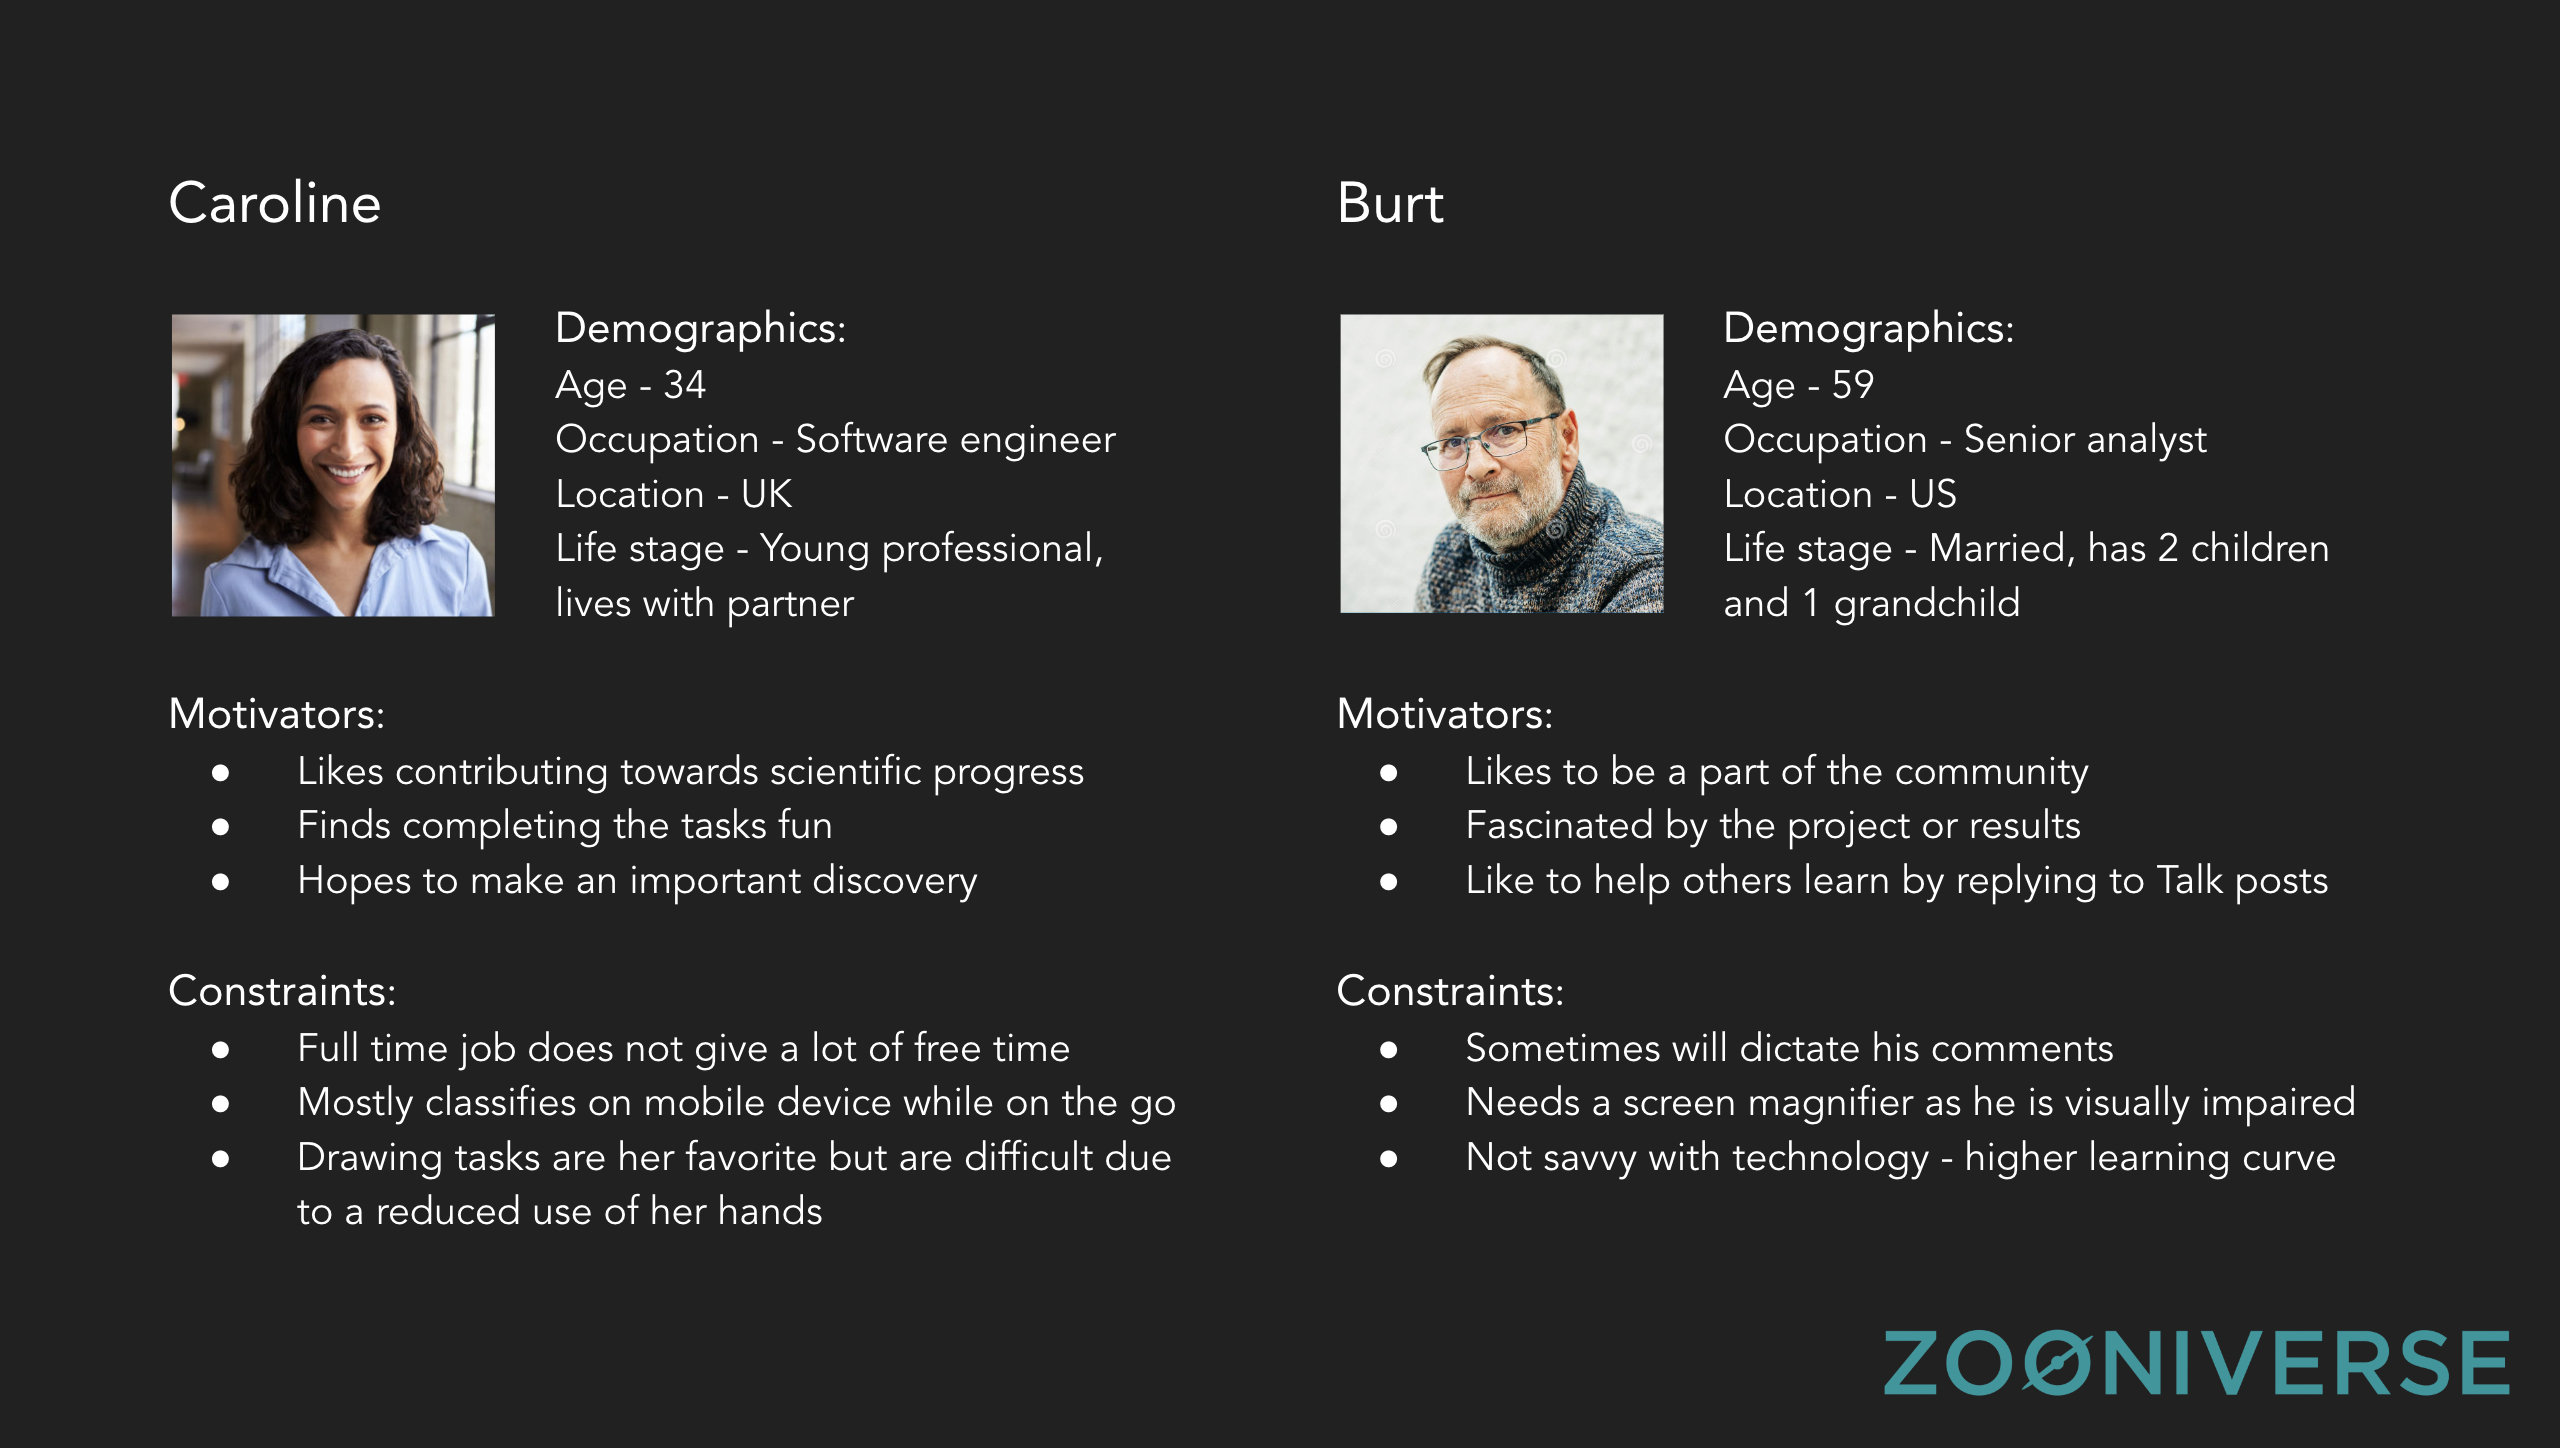
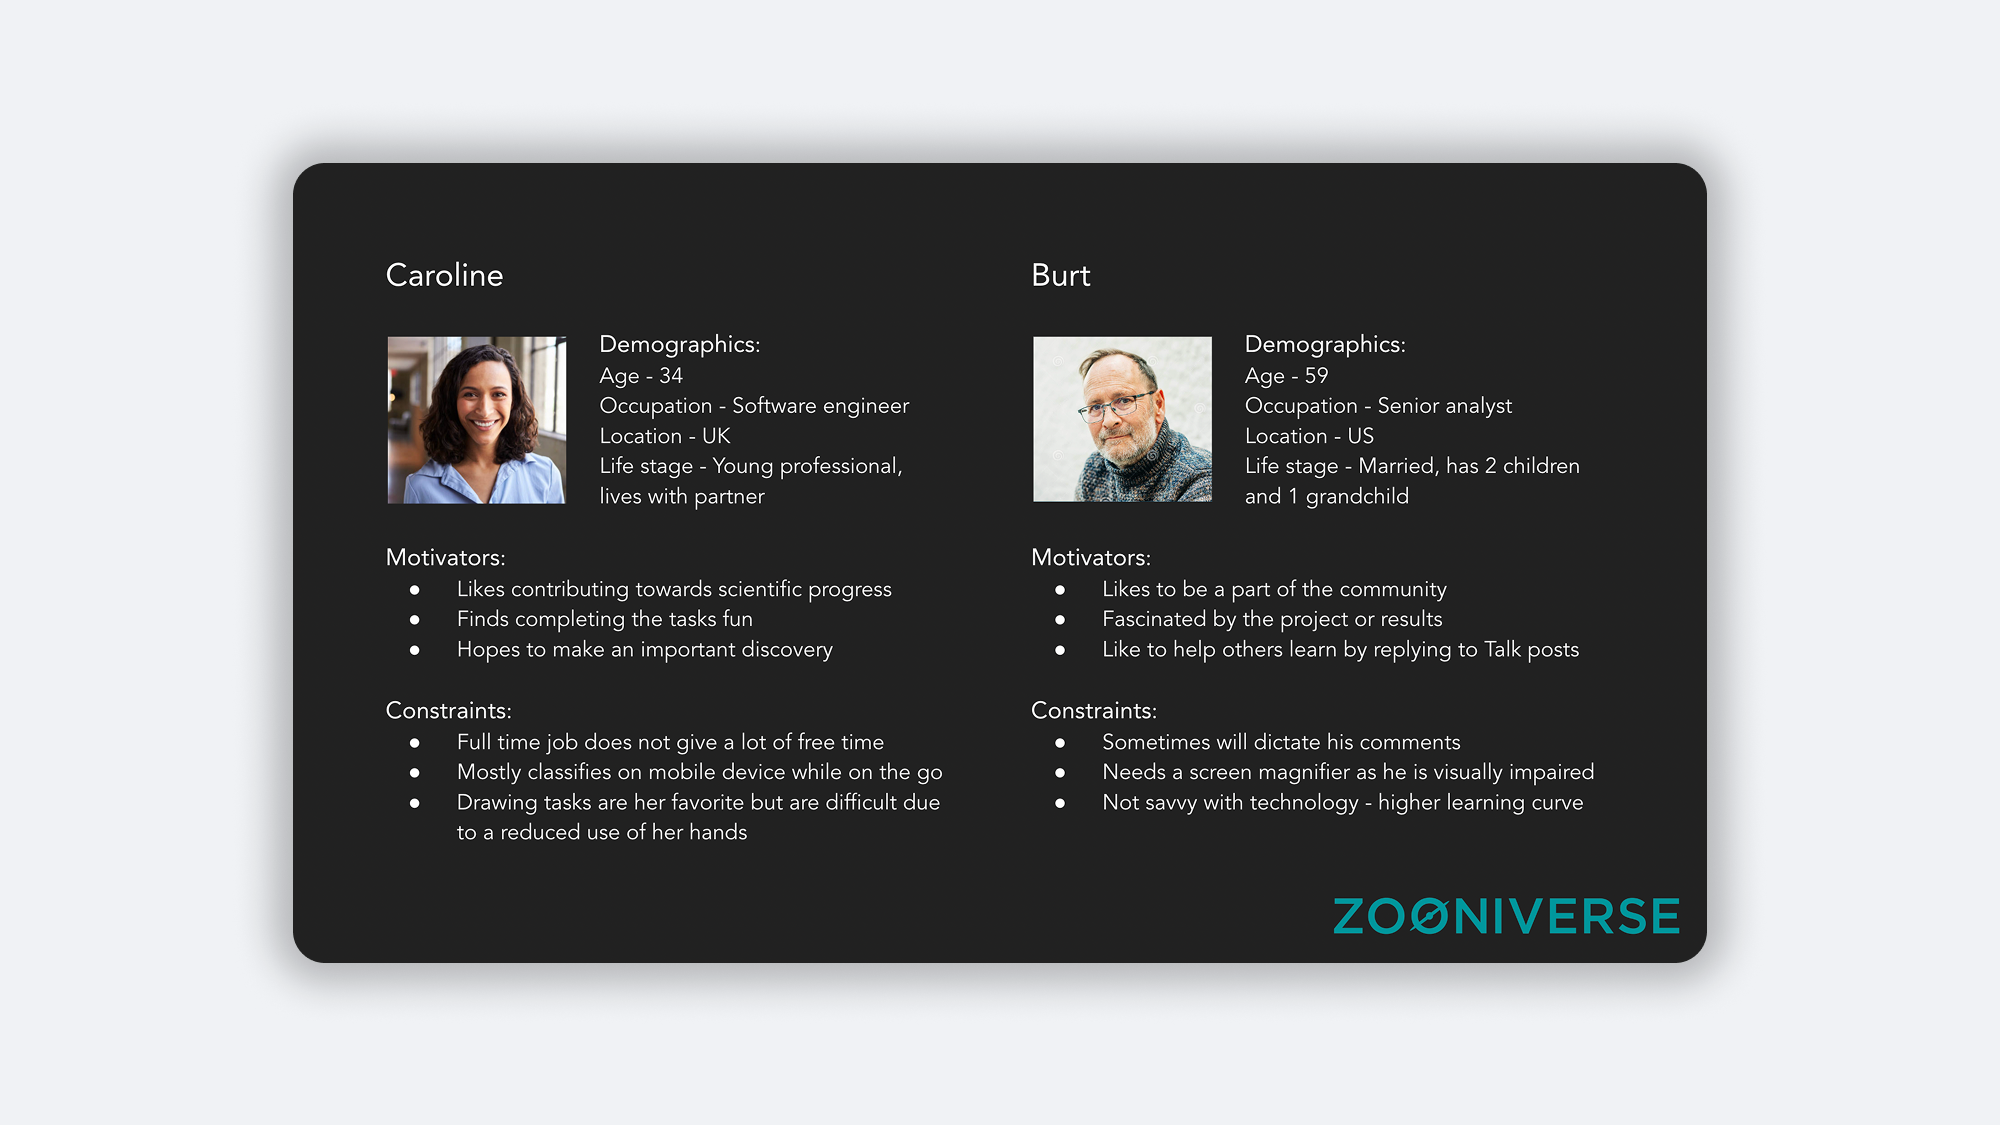
added personas

diff --git a/case_study_1.html b/case_study_1.html
@@ -120,9 +120,18 @@
                     <li>What foundational elements are missing?</li>
                     <li>How can one decision scale across dozens of pages?</li>
                     <li>How should design align with the new front-end architecture?</li>
+                    <li>How can we design elements with our user base in mind?</li>
                 </ul>
             </div>
         </section>
+
+        <figure style="margin: 0; text-align: center;">
+                <img src="https://github.com/sean-miller26/sean-miller26.github.io/blob/main/Personas.png?raw=true" 
+                alt="Personas" 
+                class="lightbox-trigger" 
+                style="width: 100%; height: auto; border-radius: 8px;">
+                <figcaption style="margin-bottom: 1rem; color: var(--color-text-light); font-size: 0.9rem;">User personas were created before any work started</figcaption>    
+            </figure>
 
         <!-- Establishing the Foundations -->
         <section class="section-white">
